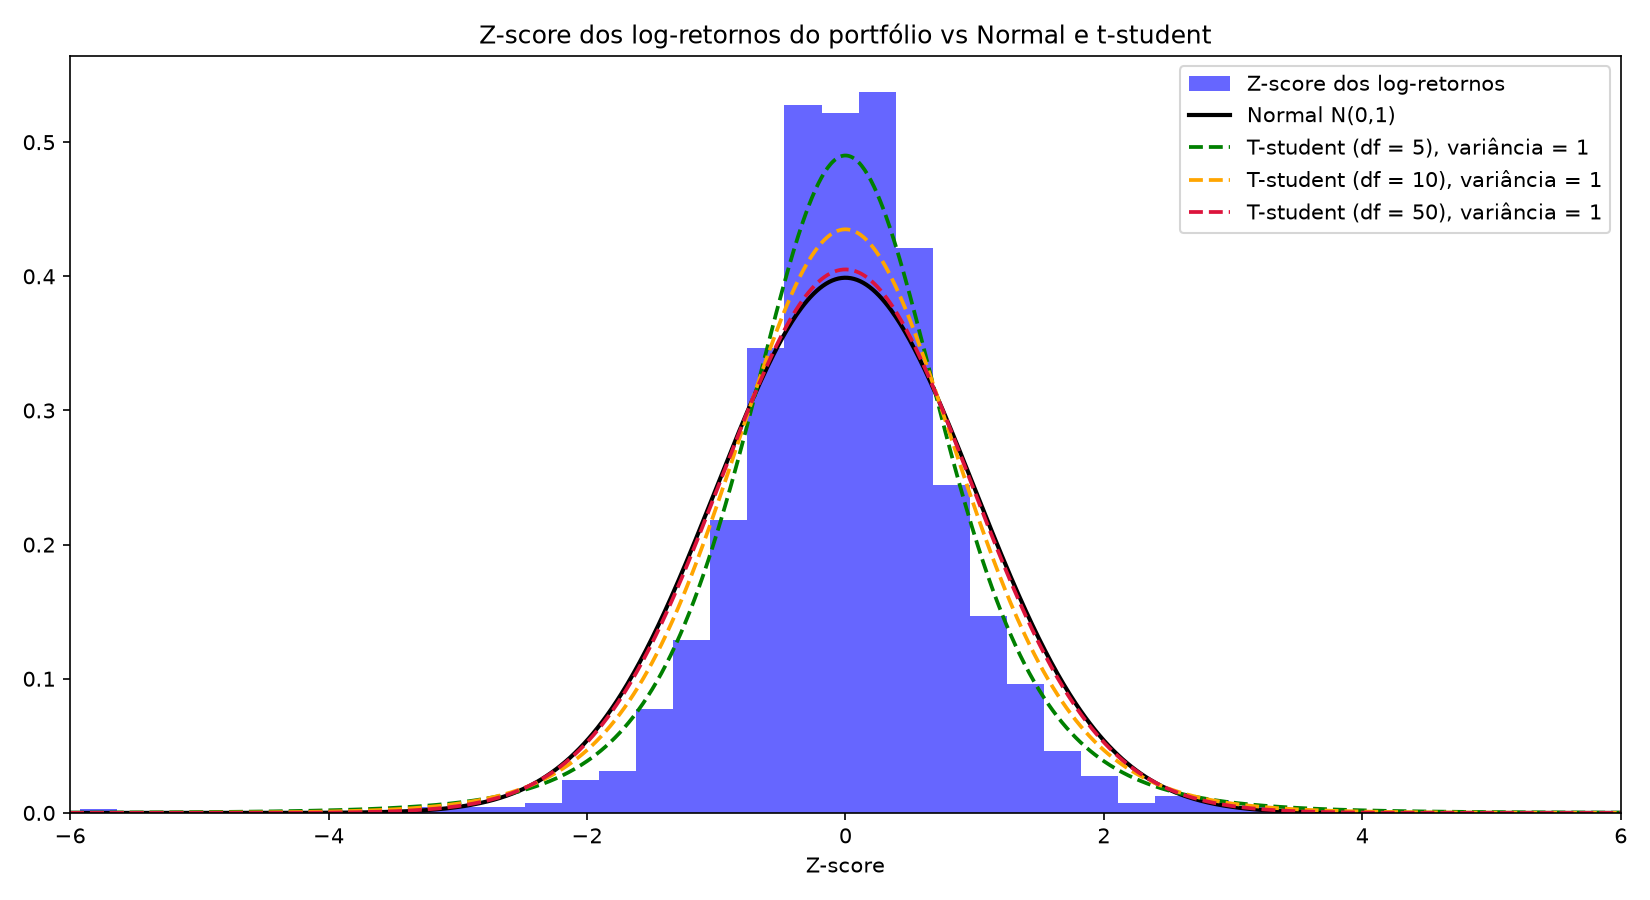
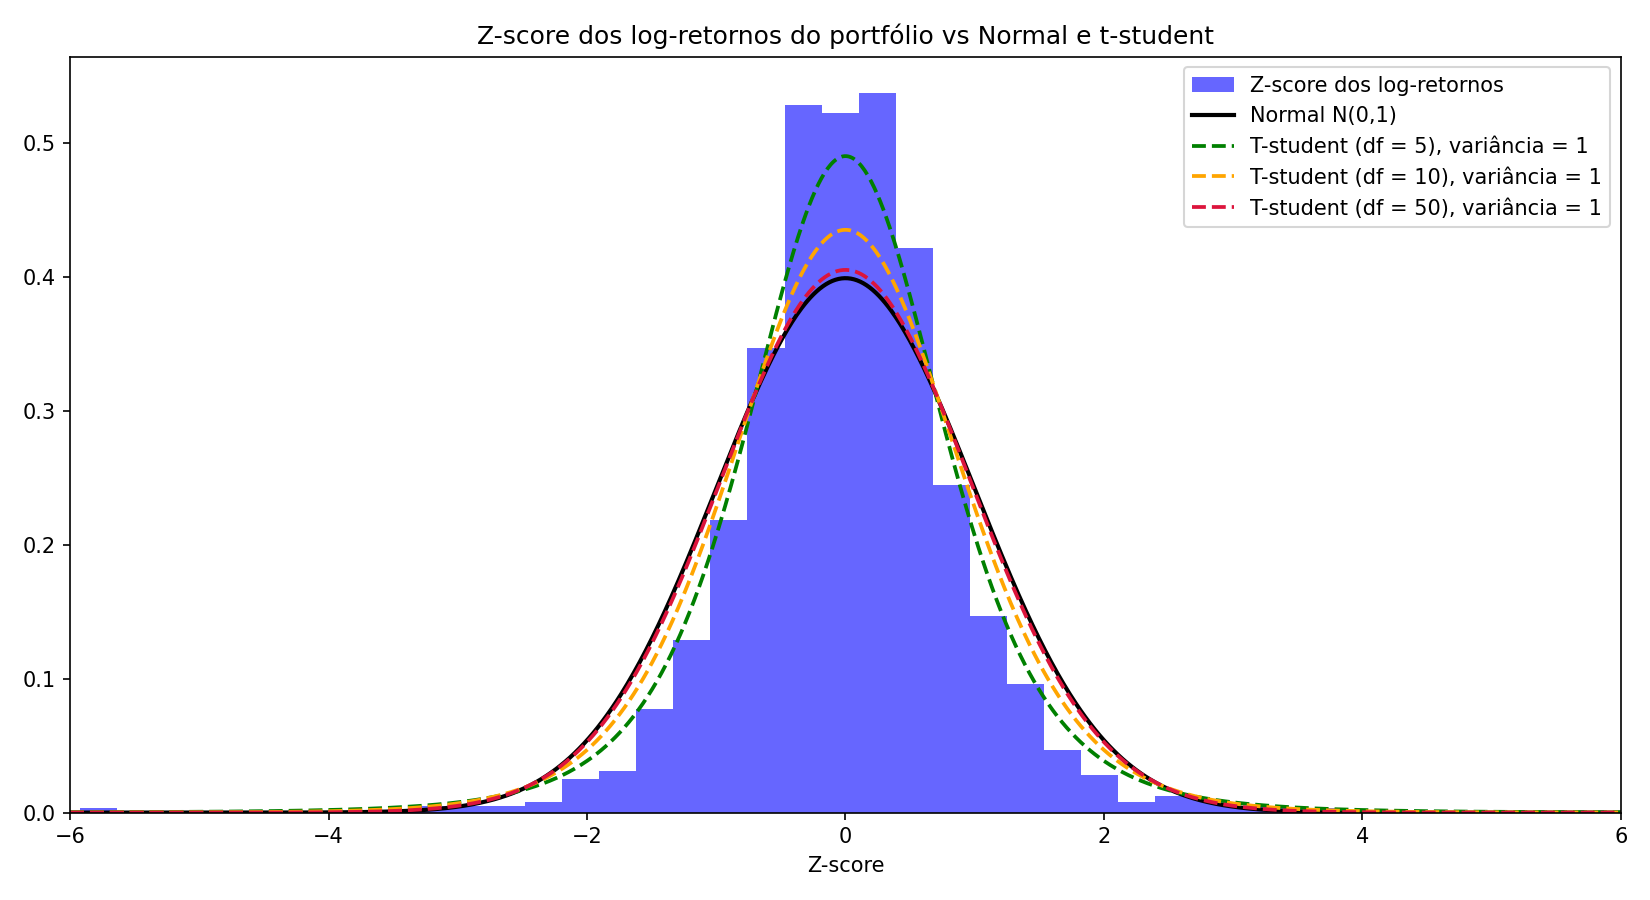
ex6_estat

diff --git a/lista_1/ex6_estat.py b/lista_1/ex6_estat.py
@@ -1,6 +1,16 @@
 import numpy as np
 from scipy import stats
 
-x = np.linspace(-1, 1, 1000)
+dados = np.random.normal(0, 1, 1000)
 
-ppf = stats.norm.ppf(0.)
+media = 0
+std = 1
+
+ppf = stats.norm.ppf(0.25, loc = media, scale = std)
+
+pct_neg = stats.norm.cdf(0, loc = media, scale = std)
+
+print(pct_neg)
+
+print(ppf)
+
